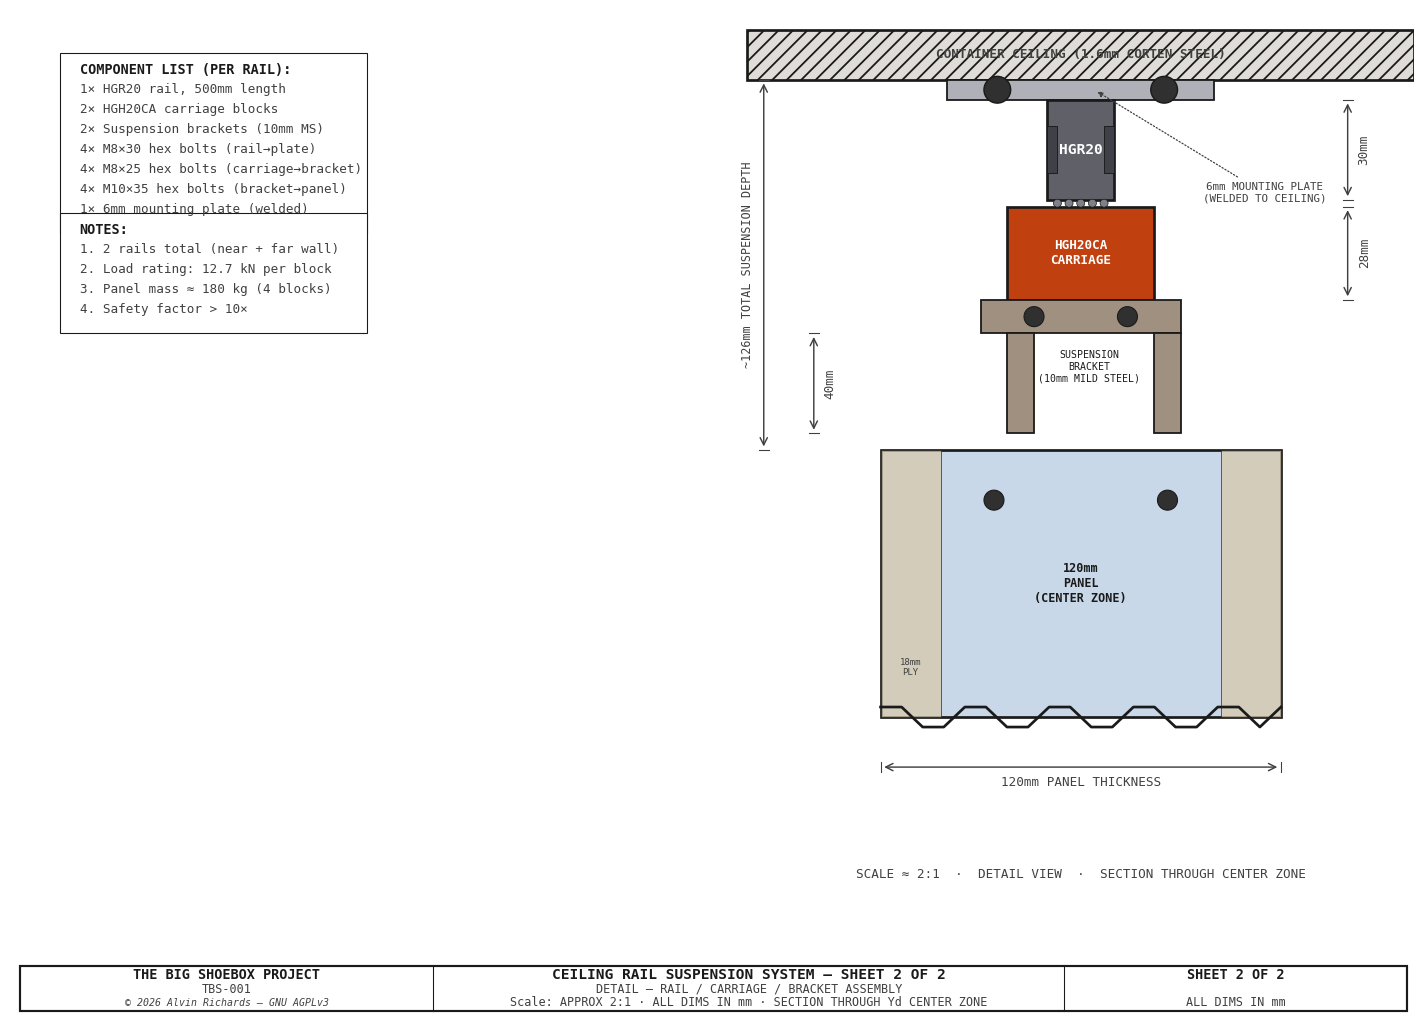
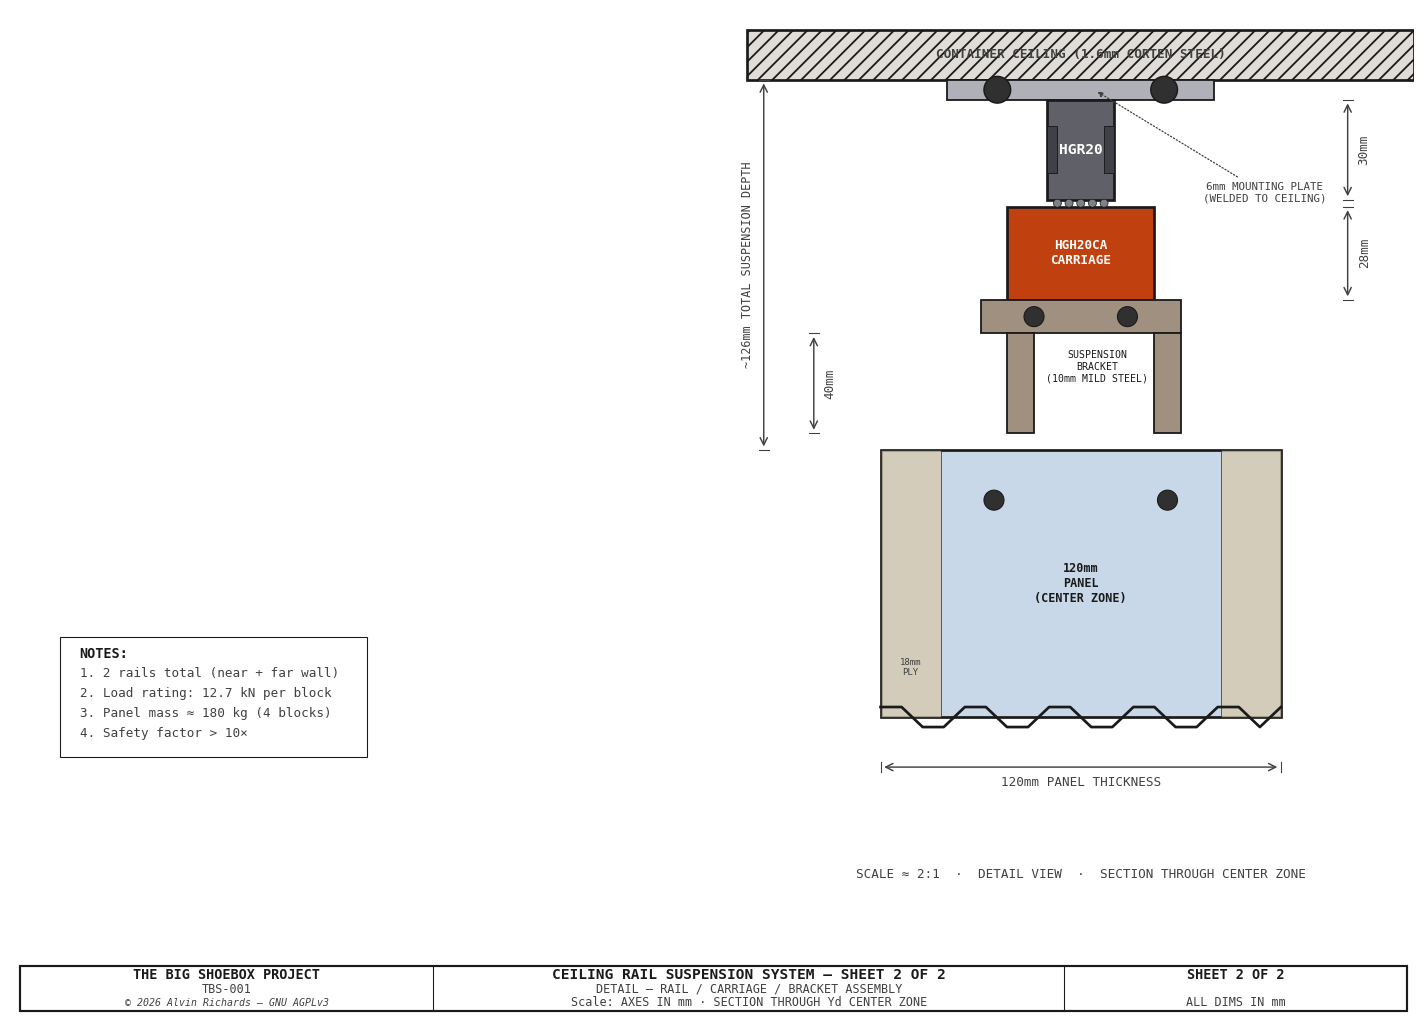
Editorial

diff --git a/generate_ceiling_rail_diagram.py b/generate_ceiling_rail_diagram.py
@@ -557,19 +557,19 @@ def sheet2():
     comp_top = sy(5)
     LINE_H = sy(6)   # tighter line spacing
 
-    comp_lines = [
-        "COMPONENT LIST (PER RAIL):",
-        "1× HGR20 rail, 500mm length",
-        "2× HGH20CA carriage blocks",
-        "2× Suspension brackets (10mm MS)",
-        "4× M8×30 hex bolts (rail→plate)",
-        "4× M8×25 hex bolts (carriage→bracket)",
-        "4× M10×35 hex bolts (bracket→panel)",
-        "1× 6mm mounting plate (welded)",
-    ]
-    draw_notes(ax, comp_lines, comp_x, comp_top, spacing=LINE_H,
-               fs=7, title_fs=7.5, color=C_DIM, title_color=C_OUT,
-               font=FONT, width=sx(W_RANGE * 0.4))
+#     comp_lines = [
+#         "COMPONENT LIST (PER RAIL):",
+#         "1× HGR20 rail, 500mm length",
+#         "2× HGH20CA carriage blocks",
+#         "2× Suspension brackets (10mm MS)",
+#         "4× M8×30 hex bolts (rail→plate)",
+#         "4× M8×25 hex bolts (carriage→bracket)",
+#         "4× M10×35 hex bolts (bracket→panel)",
+#         "1× 6mm mounting plate (welded)",
+#     ]
+#     draw_notes(ax, comp_lines, comp_x, comp_top, spacing=LINE_H,
+#                fs=7, title_fs=7.5, color=C_DIM, title_color=C_OUT,
+#                font=FONT, width=sx(W_RANGE * 0.4))
 
     note_lines = [
         "NOTES:",
@@ -578,7 +578,7 @@ def sheet2():
         f"3. Panel mass ≈ 180 kg (4 blocks)",
         f"4. Safety factor > 10×",
     ]
-    notes_top = comp_top - len(comp_lines) * LINE_H
+    notes_top = comp_top * LINE_H - 200
     draw_notes(ax, note_lines, comp_x, notes_top, spacing=LINE_H,
                fs=7, title_fs=7.5, color=C_DIM, title_color=C_OUT,
                font=FONT, width=sx(W_RANGE * 0.4))

diff --git a/hinged-panel-report.md b/hinged-panel-report.md
@@ -172,32 +172,26 @@ overhang behind the container door closure plane.
 **Sheet 1 — Side elevation cross-section: Panel suspended from ceiling rail, operational and transport positions, processing tray clearance**
 ![TBS-001 Ceiling Rail — Sheet 1: Side Elevation](assets/ceiling-rail-sheet1.png)
 
-### 5.1 Rail System
+See [Ceiling Rail Design](ceiling-rail-report.md) for full details.
 
-| Parameter | Value |
-|-----------|-------|
-| Rails | 4 × HGR20 linear guide rail, 500 mm long |
-| Carriage blocks | 8 × HGH20CA (2 per rail) |
-| Rail positions | Floor and ceiling level, both container side walls (Yd ≈ 30 mm and Yd ≈ 2,332 mm) |
-| Left (hinge) side | Vertical carriage beam (60 × 60 × 3 mm SHS, 2,400 mm tall) rides on rails; panel hinges mount to this beam |
-| Right (latch) side | Panel frame rides directly on carriage blocks — no separate beam |
-| Slide travel | 300 mm |
+### 5.1 Panel Positions
 
-### 5.2 Panel Positions
+**Sheet 4 — Sliding rail transport system: HGR20 rails, operational vs. transport positions**
+![TBS-001 Hinged Panel — Sheet 4: Transport System](assets/hingepanel-sheet4.png)
 
 | Position | Panel corner inner face X | Drum exterior edge X | Container doors clear? |
 |----------|--------------------------|---------------------|----------------------|
 | Operational | 40 mm | −295 mm | No (drum protrudes 295 mm beyond exterior face) |
 | Transport | 340 mm | −35 mm → +5 mm | Yes (drum clears exterior face by 5 mm) |
 
-### 5.3 Locking
+### 5.2 Locking
 
 | Lock position | Method |
 |--------------|--------|
 | Operational (X=0) | 2 × Destaco 207-U toggle clamps |
 | Transport (X=300) | 2 × Destaco 207-U toggle clamps |
 
-### 5.4 Floor Gap
+### 5.3 Floor Gap
 
 The panel is suspended from the ceiling HGR20 rails with an 80 mm gap between the
 panel bottom edge and the container floor. This gap clears the 50 mm processing tray
@@ -241,29 +235,9 @@ for the sliding carriage.
 
 ---
 
-## 8. Engineering Drawings
+## 8. Parts List
 
-Four construction drawings cover the panel and drum assembly:
-
-**Sheet 1 — Front elevation (1:20): Panel dimensions, drum, hinges, latches**
-![TBS-001 Hinged Panel — Sheet 1: Front Elevation](assets/hingepanel-sheet1.png)
-
-**Sheet 2 — Plan cross-section at drum mid-height: Drum baffles, S-path light route, stepped profile**
-![TBS-001 Hinged Panel — Sheet 2: Plan Cross-Section](assets/hingepanel-sheet2.png)
-
-**Sheet 3 — Drum vertical section: Walking height, bearings, person silhouette, headroom**
-![TBS-001 Hinged Panel — Sheet 3: Drum Elevation](assets/hingepanel-sheet3.png)
-
-**Sheet 4 — Sliding rail transport system: HGR20 rails, operational vs. transport positions**
-![TBS-001 Hinged Panel — Sheet 4: Transport System](assets/hingepanel-sheet4.png)
-
-Full drawings also appear in [Engineering Diagrams](engineering-diagrams.md) §12.
-
----
-
-## 9. Parts List
-
-### 11.1 Panel Structure
+### 8.1 Panel Structure
 
 | Item | Specification | Qty | Est. cost (USD) |
 |------|--------------|-----|----------------|
@@ -277,7 +251,7 @@ Full drawings also appear in [Engineering Diagrams](engineering-diagrams.md) §1
 | Flat black paint (RAL 9005) | Interior face | 2 qt | $20–$30 |
 | **Panel subtotal** | | | **$575–$895** |
 
-### 11.2 Revolving Drum
+### 8.2 Revolving Drum
 
 | Item | Specification | Qty | Est. cost (USD) |
 |------|--------------|-----|----------------|
@@ -292,7 +266,7 @@ Full drawings also appear in [Engineering Diagrams](engineering-diagrams.md) §1
 | Metal fabrication (rolling, welding, fitting) | 16–20 hrs labor | 1 | $800–$1,200 |
 | **Drum subtotal** | | | **$1,265–$1,865** |
 
-### 11.3 Sliding Carriage
+### 8.3 Sliding Carriage
 
 | Item | Specification | Qty | Est. cost (USD) |
 |------|--------------|-----|----------------|
@@ -305,7 +279,7 @@ Full drawings also appear in [Engineering Diagrams](engineering-diagrams.md) §1
 | 15 mm EPDM strip (self-adhesive, per meter) | Panel edge-to-wall clearance seals — ~5 m each side | 10 m | $30–$50 |
 | **Carriage subtotal** | | | **$365–$585** |
 
-### 11.4 Fixed Door Frame
+### 8.4 Fixed Door Frame
 
 | Item | Specification | Qty | Est. cost (USD) |
 |------|--------------|-----|----------------|
@@ -313,7 +287,7 @@ Full drawings also appear in [Engineering Diagrams](engineering-diagrams.md) §1
 | Welding / fabrication | Frame assembly + wall attachment | 1 | $200–$350 |
 | **Door frame subtotal** | | | **$290–$470** |
 
-### 11.5 Cost Summary
+### 8.5 Cost Summary
 
 | Assembly | Low estimate | High estimate |
 |----------|------------|--------------|
@@ -325,7 +299,7 @@ Full drawings also appear in [Engineering Diagrams](engineering-diagrams.md) §1
 
 ---
 
-## 10. Maintenance
+## 9. Maintenance
 
 | Interval | Task |
 |----------|------|
@@ -343,7 +317,7 @@ Full drawings also appear in [Engineering Diagrams](engineering-diagrams.md) §1
 
 ---
 
-## 11. Source References
+## 10. Source References
 
 | Item | Source |
 |------|--------|

diff --git a/ceiling-rail-report.md b/ceiling-rail-report.md
@@ -31,6 +31,10 @@ Two HGR20 linear rails are mounted to the container ceiling, one on each side wa
 line (Yd ≈ 30 mm near wall, Yd ≈ 2,332 mm far wall). Each rail runs in the
 X direction along the ceiling surface at Z=2,388 mm.
 
+**Sheet 1 — Side elevation cross-section: Panel suspended from ceiling rail, operational and transport positions, processing tray clearance**
+![TBS-001 Ceiling Rail — Sheet 1: Side Elevation](assets/ceiling-rail-sheet1.png)
+
+
 | Parameter | Value |
 |-----------|-------|
 | Rail model | HGR20 (20 mm profile linear guide rail) |
@@ -70,6 +74,10 @@ suspension bracket.
 ### 2.4 Assembly Stack
 
 From ceiling down, the suspension assembly stacks as follows:
+
+**Sheet 2 — Detail view (≈2:1): Rail/carriage/bracket assembly, mounting plate, ball bearings, panel connection**
+![TBS-001 Ceiling Rail — Sheet 2: Rail Detail](assets/ceiling-rail-sheet2.png)
+
 
 | Layer | Component | Thickness (mm) |
 |-------|-----------|---------------|
@@ -245,21 +253,7 @@ from the door frame. Light sealing is not required during transport or loading.
 
 ---
 
-## 9. Engineering Drawings
-
-Two construction drawings cover the ceiling rail suspension system:
-
-**Sheet 1 — Side elevation cross-section: Panel suspended from ceiling rail, operational and transport positions, processing tray clearance**
-![TBS-001 Ceiling Rail — Sheet 1: Side Elevation](assets/ceiling-rail-sheet1.png)
-
-**Sheet 2 — Detail view (≈2:1): Rail/carriage/bracket assembly, mounting plate, ball bearings, panel connection**
-![TBS-001 Ceiling Rail — Sheet 2: Rail Detail](assets/ceiling-rail-sheet2.png)
-
-Full drawings also appear in [Engineering Overview](engineering-diagrams.md) §13.
-
----
-
-## 10. Parts List
+## 9. Parts List
 
 | Item | Specification | Qty | Est. cost (USD) |
 |------|--------------|-----|----------------|
@@ -277,7 +271,7 @@ Full drawings also appear in [Engineering Overview](engineering-diagrams.md) §1
 
 ---
 
-## 11. Maintenance Schedule
+## 10. Maintenance Schedule
 
 | Interval | Task |
 |----------|------|
@@ -292,7 +286,7 @@ Full drawings also appear in [Engineering Overview](engineering-diagrams.md) §1
 
 ---
 
-## 12. Source References
+## 11. Source References
 
 | Item | Source |
 |------|--------|
